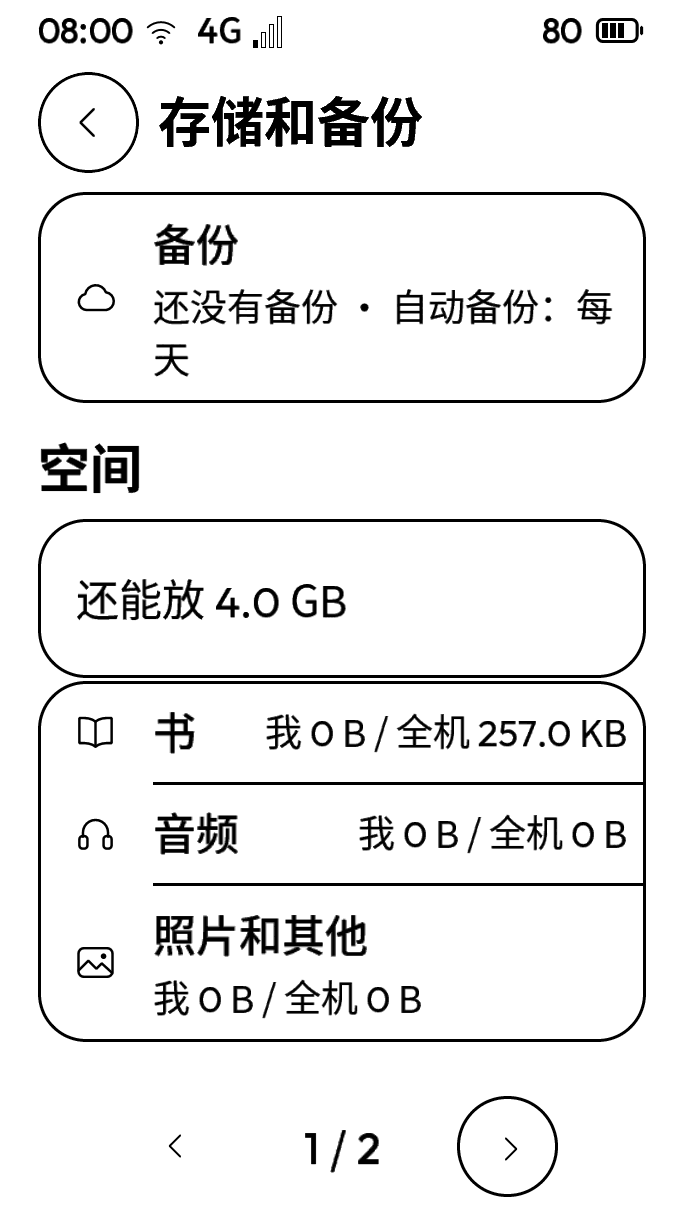
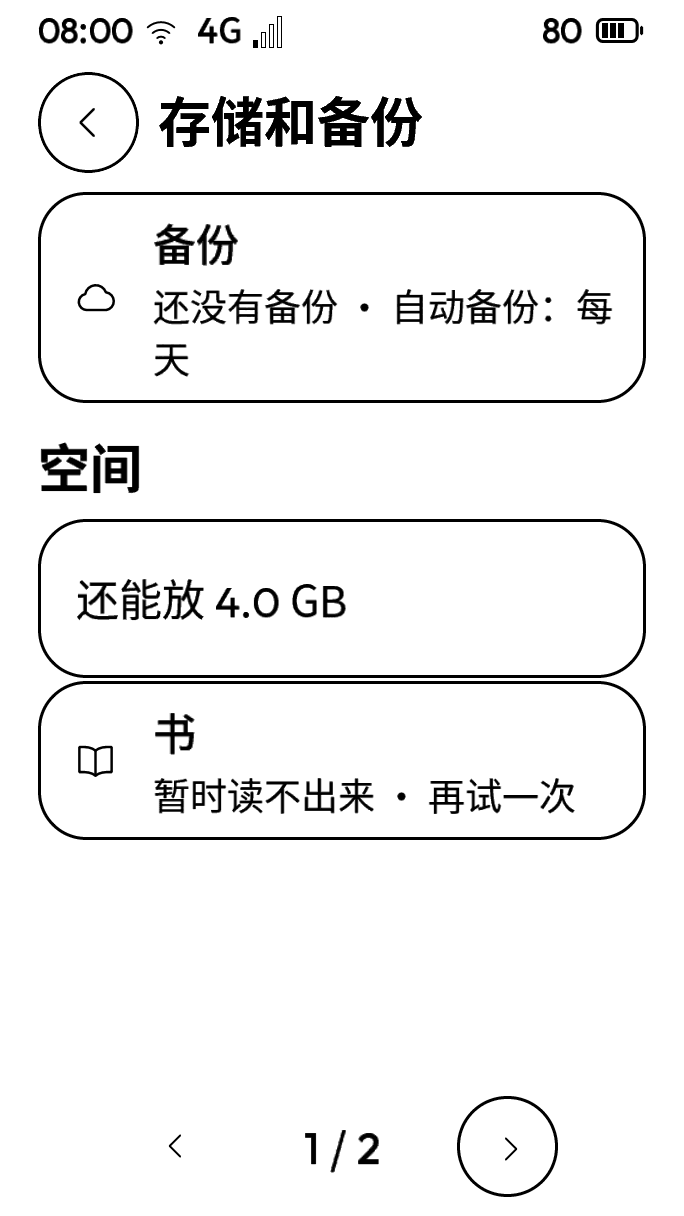
Verify error layouts and record UI regression evidence

diff --git a/tests/ui_fix_b/settings.c b/tests/ui_fix_b/settings.c
@@ -2,9 +2,16 @@
 #ifndef INK_TEST_SOURCE
 #define INK_TEST_SOURCE "../../system/ui/shell/settings_pages.c"
 #endif
+static bool test_fail_storage;
+static int test_cap_call(const char *id, const ink_args_t *args, const ink_call_opts_t *opts) {
+    if (test_fail_storage && (!strcmp(id, "file.usage") || !strcmp(id, "file.cleanup_preview"))) return -1;
+    return ink_cap_call(id, args, opts);
+}
+#define ink_cap_call test_cap_call
 #define key test_source_key
 #include INK_TEST_SOURCE
 #undef key
+#undef ink_cap_call
 
 static void test_voice(void) {
     ink_ui_field_spec_t f; ink_ui_action_spec_t a;
@@ -15,10 +22,11 @@ static void test_voice(void) {
     lv_obj_delete(slot);
 }
 static void test_storage_failure(void) {
-    U.generation = S.generation; U.state[0] = U.state[1] = 2; refresh();
     ink_ui_action_spec_t a = {0}; storage_action(2, &a);
     CHECK(a.enabled && a.capability && !strcmp(a.capability, "shell.storage"), "UX08 storage failure offers a read retry");
     value(2); CHECK(strstr(S.values[2], "再试一次"), "UX08 failed storage tells the person how to retry");
+    lv_obj_t *retry = test_label(S.body, S.values[2]);
+    CHECK(test_fits(retry), "UX08 failure and retry text fit at both sizes");
 }
 static void test_backup(void) {
     value(0); CHECK(strstr(S.values[0], "每天"), "UX08 backup row shows the automatic backup value");
@@ -45,7 +53,9 @@ static void test_run(void *arg) {
     CHECK(AI("shell.settings_next", NULL), "turn past disabled voice rows"); test_quiet(); on_ui(test_voice_paging);
     CHECK(AI("settings.set", "{\"id\":\"backup.auto\",\"value\":1}"), "set synthetic backup preference");
     CHECK(AI("shell.storage", NULL), "open storage settings"); test_quiet(); on_ui(test_backup); test_frame("storage");
+    test_fail_storage = true; CHECK(AI("shell.storage", NULL), "open storage with deterministic read failures"); test_quiet();
     on_ui(test_storage_failure); test_frame("storage-error");
+    CHECK(strstr(test_snapshot, "再试一次"), "UX08 captured storage error state stays visible"); test_fail_storage = false;
     CHECK(AI("shell.about", NULL), "open About"); test_quiet(); test_frame("about"); on_ui(test_about); test_frame("about-reset");
     ink_probe_count("test.finished");
 }

diff --git a/system/ui/shell/time_settings.c b/system/ui/shell/time_settings.c
@@ -134,6 +134,7 @@ static void create(lv_obj_t *screen, void *arg) {
             P.action[a] = (ink_ui_action_spec_t){.id = P.ids[a], .label = TR(PARTS[i]), .capability = "shell.time_step", .args_json = P.args[a], .enabled = true};
             lv_obj_t *target = ink_ui_box(screen, INK_MARGIN + INK_PRIMARY + INK_GAP_M, y + i * (INK_CONTROL + INK_GAP_M),
                 w - 2 * (INK_PRIMARY + INK_GAP_M), INK_CONTROL, INK_RADIUS_KEY, INK_SURFACE_WHITE, true);
+            lv_obj_set_style_border_side(target, LV_BORDER_SIDE_BOTTOM, 0); lv_obj_set_style_radius(target, 0, 0);
             lv_obj_set_style_bg_opa(target, LV_OPA_TRANSP, 0); ink_shell_bind(target, "shell.time_step", P.args[a]);
         }
         ink_tm_t t = {.year = P.part[0], .month = P.part[1], .day = P.part[2], .hour = P.part[3], .min = P.part[4]};

diff --git a/system/ui/shell/settings_pages.c b/system/ui/shell/settings_pages.c
@@ -349,7 +349,7 @@ static void create(lv_obj_t *screen, void *arg) {
     int room = INK_CANVAS_H - INK_STATUS_BAR - INK_PRIMARY - INK_GAP_XS - INK_CONTROL - 2 * INK_GAP;
     for (size_t i = 0; i < PAGES[S.page].count; i++) value(i);
     /* Keep the voice controls together; every F4 page must fit the measured text. */
-    for (S.capacity = S.page == VOICE ? 3 : (unsigned)PAGES[S.page].count; S.capacity > 1; S.capacity--) {
+    for (S.capacity = S.page == VOICE || S.page == STORAGE ? 3 : (unsigned)PAGES[S.page].count; S.capacity > 1; S.capacity--) {
         bool fits = true; int y = 0;
         for (size_t i = 0; i < PAGES[S.page].count; i++) {
             if (!(i % S.capacity)) y = 0;

diff --git a/tests/ui_fix_b/time.c b/tests/ui_fix_b/time.c
@@ -17,6 +17,7 @@ static void test_choices(void) {
 }
 static int test_part;
 static const char *const test_numbers[] = {"2032", "12", "25", "23", "59"};
+_Static_assert(sizeof test_numbers / sizeof *test_numbers == TIME_FIELDS_MAX, "numeric fixtures cover all date parts");
 static void test_numeric(void) {
     CHECK(ink_text_type() == INK_TEXT_NUMBER && ink_text_focused(), "UX10 direct entry uses the existing numeric input");
     ink_text_select(0, 4); ink_text_commit_utf8(test_numbers[test_part]); ink_text_enter();

diff --git a/docs/tasks/ui-fix-b/REPORT.md b/docs/tasks/ui-fix-b/REPORT.md
@@ -6,14 +6,17 @@
 
 | 编号 | 结论 | 证据 | 命令 |
 | --- | --- | --- | --- |
-| UX08（T16～T25） | 中文专项通过 | 【实测】每档 35 项；不支持叫名字时无可点档位并显示原因；备份行含自动备份当前值；读数失败可重读；放大后清空动作和后果可见；翻页恢复可用状态 | C1 |
+| UX08（T16～T25） | 中文专项通过 | 【实测】每档 39 项；不支持叫名字时无可点档位并显示原因；备份行含自动备份当前值；读数失败可重读；放大后清空动作和后果可见；翻页恢复可用状态 | C1 |
 | UX10（T26～T29） | 中文专项通过 | 【实测】每档 63 项；禁用原因、短标题、单选勾；年、月、日、时、分均直接输入，保留加减和最后保存 | C1 |
 | UX16（S19～S26） | 中文专项通过 | 【实测】每档 36 项；验证对象、4～8 位规则、3×4 键盘右下确认；真正三次错误触发既有冷却并禁用数字及确认，秘密仍掩码 | C1 |
 | UX24（T14～T15） | 中文专项通过 | 【实测】每档 20 项呈现检查；发现、已配对、连接中分组；原有蓝牙测试新增实际点按“忘记”并核对删除配对记录，原长按检查保留 | C1、C3 |
-| 普通与 120% 前后截图、反向对照 | 通过 | 【实测】[74 张图](SCREENSHOTS.md)，最大 35,880 B；基线四组分别触发 5、4、6、4 项失败，两档字号均如此；[结构化结果](EVIDENCE.json) | C1 |
+| 普通与 120% 前后截图、反向对照 | 通过 | 【实测】[74 张图](SCREENSHOTS.md)，最大 35,880 B；基线四组分别触发 6、4、6、4 项失败，两档字号均如此；[结构化结果](EVIDENCE.json) | C1 |
 | 普通全量 ctest（含 ui-scale） | 未全过；修复复测剩 2 项共享收尾 | 【实测】首轮原话 `98% tests passed, 8 tests failed out of 401`，1140.88 秒，3 项中枢跳过；随后 14 项复测 12 过、仅 `i18n-literals` 和 `capability-table-doc` 未过；`ui-scale` 已过 | C2、C3 |
-| 内存检查、S31、gcccheck | 待执行 | 待补 | 待补 |
-| 范围、行数与隐私检查 | 待执行 | 产品代码预算 280 行 | 待补 |
+| ASan/UBSan 专项 | 通过 | 【实测】四组两档共 8 场景，均无失败或 sanitizer 报告 | C4 |
+| ASan/UBSan 全量 | 运行中 | 待补最终输出 | C4 |
+| S31 固件 | 未编 | 仅跑主工程包含的 S31 宿主机单测，未交付目标固件 | C2 |
+| gcccheck | 通过 | 【实测】`gcccheck: 7 compiled, 0 with findings`，无跳过；这是编译检查，未在 Linux 运行测试 | C5 |
+| 范围、行数与隐私检查 | 通过，收尾再核 | 【实测】产品增删共 188 行，预算 280；隐私匹配两处合成地址，无本机绝对路径 | C6 |
 
 ## 没做到的
 
@@ -35,7 +38,7 @@
 
 ## 要用户定的
 
-暂无。
+部分截图状态栏存在既有残留，未定位原因；本任务未修改状态栏或屏幕输出。
 
 ## 顺手发现
 
@@ -56,6 +59,15 @@
 - C1：`taskpolicy -c utility "$INK_DEPS/build-deps/pyenv/bin/python" tests/ui_fix_b/run.py --build build --reverse --screenshots docs/tasks/ui-fix-b/screenshots`。
 - C2：按任务书配置与 `cmake --build build -j2` 后，`taskpolicy -c utility "$INK_DEPS/build-deps/pyenv/bin/ctest" --test-dir build --output-on-failure -j2`。
 - C3：C2 加 `-R '^(ui-scale|i18n-shell|i18n-literals|capability-table-doc|integration-ai-surface|settings-b|storage-usage|file-index-3|time-settings|bluetooth-settings|settings-a|ui-scene-Pin|ui-scene-big-Pin|semantics-shell2-member)$'`。
+- C4：按相同配置换 `build-asan`、只加 `-DINK_SANITIZE=ON`，构建 `-j2`；C1 去掉 `--reverse` 和截图参数并换构建目录，然后按 C2 跑该目录的全量 ctest。
+- C5：`taskpolicy -c utility python3 ../../tools/gcccheck.py build system/ui/shell/settings_pages.c system/ui/shell/time_settings.c system/ui/shell/member_pages.c system/ui/shell/pinpad.c system/ui/shell/bluetooth_page.c tests/settings_a.c tests/bluetooth.c`。
+- C6：`git diff 7bb9386a0330eb6be71301a06579e7f26aad73a2..HEAD --stat`、`--numstat`；隐私扫描匹配绝对路径与六段十六进制地址，结果仅本任务蓝牙夹具的两处合成地址。
 - 专项测试直接编译相应呈现文件，基线对照用临时对象替换，不改工作区、不切历史提交；仅 `--reverse` 需要 Git 历史。没有改共享 CMake 或公共测试。
 - 截图和错误状态用合成输入；蓝牙分组／连接中是呈现夹具，密码等待由三次真实错误密码触发。完整业务由原有时间、蓝牙、成员测试补充。
 - 完整命令输出留在忽略的 `work/ui-fix-b/` 和 `build/ui-fix-b/`，不提交构建产物。
+
+## 为什么不能更小
+
+188 行按新增加删除的口径统计（不含测试、文档）。四组各有独立根因；最大的是时间页，必须补数字输入绑定、草稿范围校验和单选反馈。看过只改提示、保留旧确认位置及只保留长按的方案，都无法满足指定验收。保留已有能力、公共组件、分页和服务算法；没有修改共享主题或增加公共接口。
+
+截图的存储失败在请求处注入确定的错误，避免被晚到成功回执覆盖；存储页每页最多三行，给失败文案及 120% 字号留足空间。初版错误截图已替换，最终图与实际错误状态对应。

diff --git a/docs/tasks/ui-fix-b/SCREENSHOTS.md b/docs/tasks/ui-fix-b/SCREENSHOTS.md
@@ -24,4 +24,4 @@
 | time／time-input | [查看](screenshots/time-100-before-time-edit.png) | [查看](screenshots/time-100-after-time-input.png) | [查看](screenshots/time-120-before-time-edit.png) | [查看](screenshots/time-120-after-time-input.png) |
 | time／zones | [查看](screenshots/time-100-before-zones.png) | [查看](screenshots/time-100-after-zones.png) | [查看](screenshots/time-120-before-zones.png) | [查看](screenshots/time-120-after-zones.png) |
 
-共 74 张；最大 35880 B；合计 1791416 B。
+共 74 张；最大 35880 B；合计 1765648 B。
